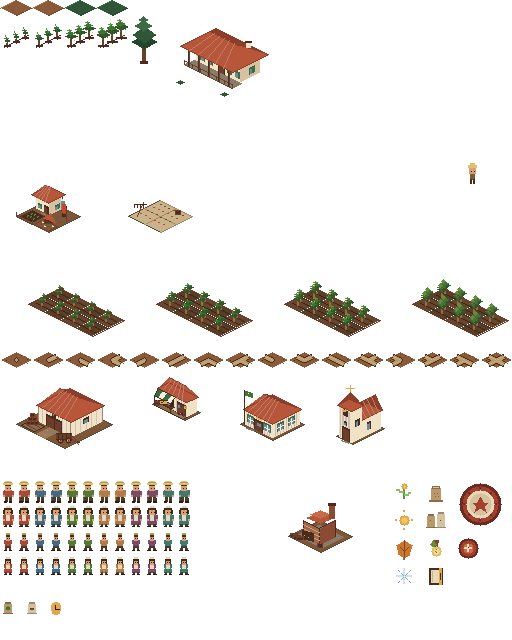
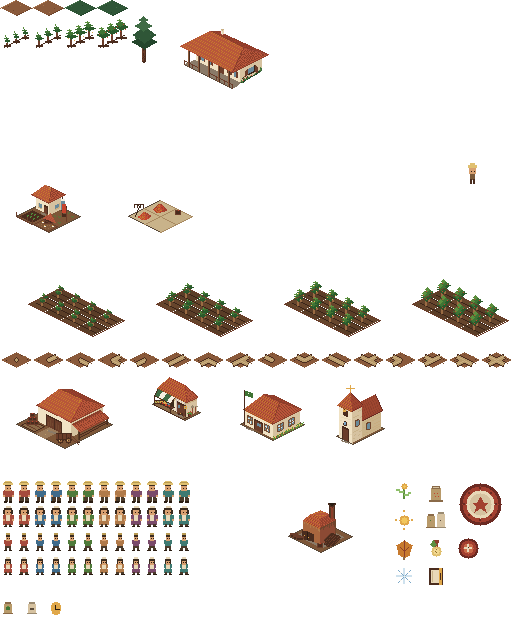
feat: refresh Sítio building and tree pixel art
- repaint the colono house, casa grande, terreiro, tulha, forno, venda, escola and capela
- update the tree sprite
- document the pass with before/after comparisons in art/sitio/visual-pass.md

diff --git a/art/sitio/visual-pass.md b/art/sitio/visual-pass.md
@@ -1,0 +1,171 @@
+# Sítio visual pass
+
+Working notes for the manual pixel-art pass on `art/sitio/sitio.aseprite`.
+Each edited asset keeps a before/after comparison so changes can be reviewed
+without opening Aseprite.
+
+**Branch:** `art/sitio-visual-pass`
+**Source of truth:** `art/sitio/sitio.aseprite`
+**Export command:** `pnpm art` — never `pnpm art:draw` after manual edits.
+
+## Progress
+
+| Group | Status |
+| --- | --- |
+| Buildings | Edited; comparisons ready |
+| People and family portrait | Pending |
+| Coffee and trees | Tree edited; coffee pending |
+| Terrain, roads and field icons | Pending |
+| HUD | Pending |
+
+## Buildings
+
+### Colono house
+
+![Colono house before and after](visual-pass/house-comparison.png)
+
+| | |
+| --- | --- |
+| Slice | `house`, `(0,160,96,80)` |
+| Base | `(48,56)` |
+| Pixels changed | 216 |
+| Changed bounds | `(33,25)` to `(73,68)` |
+| Before | [house-before.png](visual-pass/house-before.png) |
+| After | [house-after.png](visual-pass/house-after.png) |
+| Diff | [house-diff.png](visual-pass/house-diff.png) |
+
+### Casa grande
+
+![Casa grande before and after](visual-pass/sede-comparison.png)
+
+| | |
+| --- | --- |
+| Slice | `sede`, `(160,16,112,88)` |
+| Base | `(64,52)` |
+| Pixels changed | 1244 |
+| Changed bounds | `(16,12)` to `(108,80)` |
+| Latest adjustment | 669 pixels, `(20,15)` to `(82,55)` |
+| Before | [sede-before.png](visual-pass/sede-before.png) |
+| After | [sede-after.png](visual-pass/sede-after.png) |
+| Diff | [sede-diff.png](visual-pass/sede-diff.png) |
+| Latest pass | [sede-adjustment-comparison.png](visual-pass/sede-adjustment-comparison.png) |
+
+### Terreiro
+
+![Terreiro before and after](visual-pass/terreiro-comparison.png)
+
+| | |
+| --- | --- |
+| Slice | `terreiro`, `(112,160,96,80)` |
+| Pixels changed | 219 |
+| Changed bounds | `(23,42)` to `(71,64)` |
+| Before | [terreiro-before.png](visual-pass/terreiro-before.png) |
+| After | [terreiro-after.png](visual-pass/terreiro-after.png) |
+| Diff | [terreiro-diff.png](visual-pass/terreiro-diff.png) |
+
+### Tulha
+
+![Tulha before and after](visual-pass/tulha-comparison.png)
+
+| | |
+| --- | --- |
+| Slice | `tulha`, `(0,368,128,104)` |
+| Pixels changed | 1146 |
+| Changed bounds | `(38,20)` to `(108,71)` |
+| Before | [tulha-before.png](visual-pass/tulha-before.png) |
+| After | [tulha-after.png](visual-pass/tulha-after.png) |
+| Diff | [tulha-diff.png](visual-pass/tulha-diff.png) |
+
+### Forno
+
+![Forno before and after](visual-pass/forno-comparison.png)
+
+| | |
+| --- | --- |
+| Slice | `forno`, `(256,480,128,104)` |
+| Pixels changed | 658 |
+| Changed bounds | `(47,23)` to `(84,66)` |
+| Before | [forno-before.png](visual-pass/forno-before.png) |
+| After | [forno-after.png](visual-pass/forno-after.png) |
+| Diff | [forno-diff.png](visual-pass/forno-diff.png) |
+
+### Venda
+
+![Venda before and after](visual-pass/venda-comparison.png)
+
+| | |
+| --- | --- |
+| Slice | `venda`, `(128,368,96,64)` |
+| Pixels changed | 516 |
+| Changed bounds | `(27,9)` to `(70,48)` |
+| Before | [venda-before.png](visual-pass/venda-before.png) |
+| After | [venda-after.png](visual-pass/venda-after.png) |
+| Diff | [venda-diff.png](visual-pass/venda-diff.png) |
+
+### Escola
+
+![Escola before and after](visual-pass/escola-comparison.png)
+
+| | |
+| --- | --- |
+| Slice | `escola`, `(224,368,96,88)` |
+| Pixels changed | 978 |
+| Changed bounds | `(21,26)` to `(79,71)` |
+| Before | [escola-before.png](visual-pass/escola-before.png) |
+| After | [escola-after.png](visual-pass/escola-after.png) |
+| Diff | [escola-diff.png](visual-pass/escola-diff.png) |
+
+### Capela
+
+![Capela before and after](visual-pass/capela-comparison.png)
+
+| | |
+| --- | --- |
+| Slice | `capela`, `(320,368,80,112)` |
+| Pixels changed | 1293 |
+| Changed bounds | `(17,24)` to `(62,75)` |
+| Before | [capela-before.png](visual-pass/capela-before.png) |
+| After | [capela-after.png](visual-pass/capela-after.png) |
+| Diff | [capela-diff.png](visual-pass/capela-diff.png) |
+
+## Trees
+
+### Tree
+
+![Tree before and after](visual-pass/tree-comparison.png)
+
+| | |
+| --- | --- |
+| Slice | `tree`, `(128,16,32,48)` |
+| Pixels changed | 44 |
+| Changed bounds | `(7,21)` to `(19,47)` |
+| Before | [tree-before.png](visual-pass/tree-before.png) |
+| After | [tree-after.png](visual-pass/tree-after.png) |
+| Diff | [tree-diff.png](visual-pass/tree-diff.png) |
+
+## Change log
+
+| Asset | Status | Notes |
+| --- | --- | --- |
+| Colono house | Edited; comparison ready | 216 pixels changed; roof, walls and yard details |
+| Casa grande | Edited; comparison ready | 1244 pixels changed; latest pass adjusted 669 pixels |
+| Terreiro | Edited; comparison ready | 219 pixels changed |
+| Tulha | Edited; comparison ready | 1146 pixels changed |
+| Forno | Edited; comparison ready | 658 pixels changed |
+| Venda | Edited; comparison ready | 516 pixels changed |
+| Escola | Edited; comparison ready | 978 pixels changed |
+| Capela | Edited; comparison ready | 1293 pixels changed |
+| Tree | Edited; comparison ready | 44 pixels changed |
+
+All comparisons are shown at 4×. The tree uses 8× because its source slice is
+32×48.
+
+## Review checklist
+
+- [ ] Slices and dimensions unchanged, or renderer anchors updated
+- [ ] `pnpm art`
+- [ ] `pnpm test`
+- [ ] `/?art`
+- [ ] In-game screenshots
+- [ ] Final `pnpm check`
+- [ ] Final `pnpm test:e2e`

diff --git a/art/sitio/README.md b/art/sitio/README.md
@@ -38,6 +38,11 @@ Keep the slice names stable: the HUD references them by name. Moving a slice is
 safe after `pnpm art` updates the JSON; changing its dimensions may require a
 layout adjustment in `apps/web/src/hud.css`.
 
+## Visual pass
+
+The current manual art pass is documented in [visual-pass.md](visual-pass.md),
+with before/after comparisons and pixel-change notes for every edited sprite.
+
 ## Live Aseprite workflow
 
 1. Open Aseprite.
